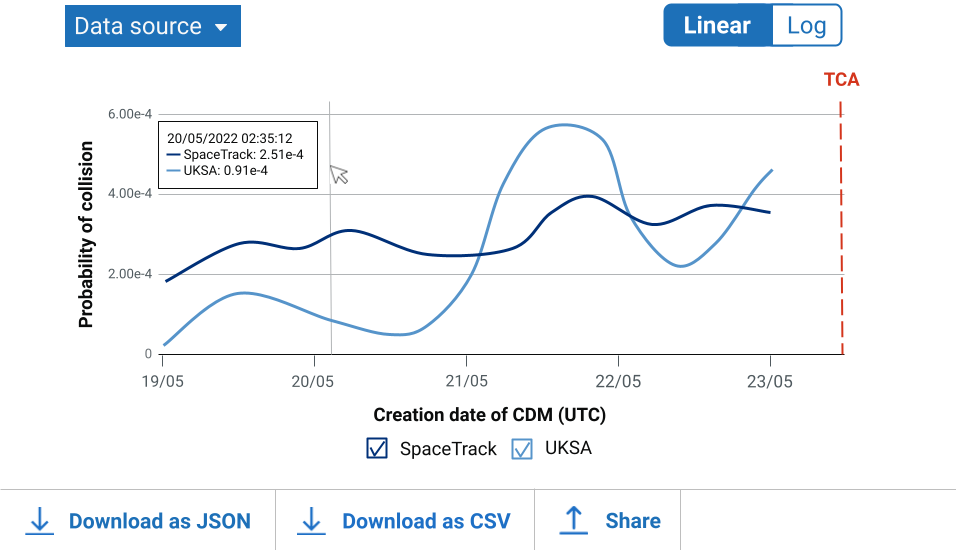
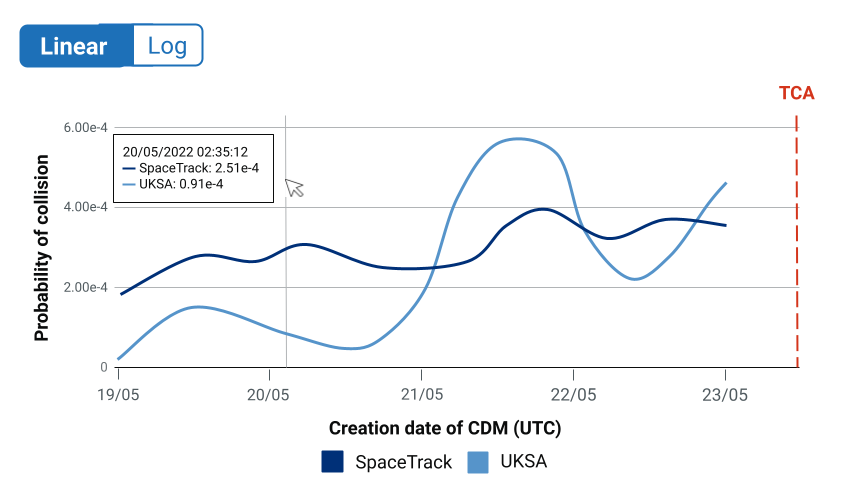
feat: Added the ability to toggle SPECIAL data on and off [SS-1779] (#229)

diff --git a/app/views/events/operator/event-summary-6.html b/app/views/events/operator/event-summary-6.html
@@ -65,29 +65,6 @@ Event bads-basdw-ascs
     </ul>
     <hr class="govuk-section-break govuk-section-break--l govuk-section-break--visible">
     <h3 class="govuk-heading-m">Filters</h3>
-    <div class="govuk-form-group" hidden>
-      <fieldset class="govuk-fieldset">
-        <legend class="govuk-fieldset__legend govuk-fieldset__legend--s">
-          <b style="margin-bottom: 0px">Filter by Analysis Type</b>
-        </legend>
-        <div class="govuk-checkboxes govuk-checkboxes--small" data-module="govuk-checkboxes">
-          <div class="govuk-checkboxes__item">
-            <input class="govuk-checkboxes__input" id="data-source" name="data-source-st" type="checkbox" value="space-track" checked>
-            <label class="govuk-label govuk-checkboxes__label" for="organisation">
-              Space-Track<br/>
-              <span style="font-size: 16px; color:#505a5f">Uses fixed hard body radius (5m)</span>
-            </label>
-          </div>
-          <div class="govuk-checkboxes__item">
-            <input class="govuk-checkboxes__input" id="data-source" name="data-source-uksa" type="checkbox" value="uksa" checked>
-            <label class="govuk-label govuk-checkboxes__label" for="organisation-2">
-              UKSA Analysis<br/>
-              <span style="font-size: 16px; color:#505a5f">Uses analyst-selected hard body radius (4.6m)</span>
-            </label>
-          </div>
-        </div>
-      </fieldset>
-    </div>
     <div class="govuk-form-group">
       <fieldset class="govuk-fieldset">
         <legend class="govuk-fieldset__legend govuk-fieldset__legend--s">
@@ -95,7 +72,33 @@ Event bads-basdw-ascs
         </legend>
         <div class="govuk-checkboxes govuk-checkboxes--small" data-module="govuk-checkboxes">
           <div class="govuk-checkboxes__item">
-            <input class="govuk-checkboxes__input" id="data-source" name="data-source-st" type="checkbox" value="space-track" checked>
+            <script>
+              const GRAPH_PATHS = {
+                "operational": {
+                  "missDistance": "/public/images/chart-MD.png",
+                  "collisionProbability": "/public/images/chart-PoC.png"
+                },
+                "special": {
+                  "missDistance": "/public/images/special/miss_distance_withspecial.png",
+                  "collisionProbability": "/public/images/special/poc_graph_withspecial.png"
+                }
+              };
+              var specialGraphsShown = true;
+              const toggleSpecialGraphs = function () {
+                // get miss distance graphs
+                const graphMissDistance = document.getElementById("graph-miss-distance");
+                const graphCollisionProbability = document.getElementById("graph-collision-probability");
+                const tableRowSpecialDataSource = document.getElementById("data-source-row-special");
+                const filterSpecialCheckbox = document.getElementById("filter-special");
+                specialGraphsShown = filterSpecialCheckbox.checked;
+
+                var lookup = specialGraphsShown ? "special" : "operational";
+                graphMissDistance.src = GRAPH_PATHS[lookup]["missDistance"];
+                graphCollisionProbability.src = GRAPH_PATHS[lookup]["collisionProbability"];
+                tableRowSpecialDataSource.hidden = !specialGraphsShown;
+              };
+            </script>
+            <input class="govuk-checkboxes__input" id="filter-special" name="filter-special" type="checkbox" value="space-track" onchange="toggleSpecialGraphs()" checked>
             <label class="govuk-label govuk-checkboxes__label" for="organisation">
               Show <strong class="govuk-tag">special</strong> ephemeris<br/>
               <span style="font-size: 16px; color:#505a5f">This is data based on planned, but not executed, manoeuvres</span>
@@ -184,7 +187,7 @@ Event bads-basdw-ascs
                       <div style="background-color:#f3f2f1">
                       <p class="govuk-body-secondary"><p style=color:#505a5f>The changing probability of a conjunction event leading up to the time of closest approach (TCA). Data from the UKSA and Space-Track is shown </p>
     
-                    <img src="/public/images/special/poc_graph_withspecial.png" alt="PoC Chart" width="100%">
+                    <img id="graph-collision-probability" src="/public/images/special/poc_graph_withspecial.png" alt="PoC Chart" width="100%">
                       </div>
     
                     </div>
@@ -205,7 +208,7 @@ Event bads-basdw-ascs
                               <div style="background-color:#f3f2f1">
                               <p class="govuk-body-secondary"><p style=color:#505a5f>The changing expected miss distance leading up to the time of closest approach (TCA). All available data is shown. </p>
     
-                            <img src="/public/images/special/miss_distance_withspecial.png" alt="MD Chart" width="100%">
+                            <img id="graph-miss-distance" src="/public/images/special/miss_distance_withspecial.png" alt="MD Chart" width="100%">
                               </div>
                             </div>
     
@@ -287,7 +290,7 @@ Event bads-basdw-ascs
                     </div>
                     </div>
     
-                    <!-- Collision plane plot -->
+                    <!-- Collision plane plot - CURRENTLY HIDDEN -->
                     <div class="govuk-accordion__section" hidden>
                       <div class="govuk-accordion__section-header">
                         <h2 class="govuk-accordion__section-heading" id="accordion-heading-2a">
@@ -617,7 +620,7 @@ Event bads-basdw-ascs
                           </table>
                         </td>
                       </tr>
-                    <tr class="govuk-table__row">
+                    <tr id="data-source-row-special" class="govuk-table__row">
                       <td class="govuk-table__cell govuk-body-s">Space-Track CDM: ID 987654321<br/><strong class="govuk-tag">special</strong></td>
                       <td class="govuk-table__cell govuk-body-s">03/02/21 14:10</td>
                       <td class="govuk-table__cell govuk-body-s">1.639e-3</td>

diff --git a/app/views/events/operator/event-summary-7.html b/app/views/events/operator/event-summary-7.html
@@ -72,22 +72,6 @@ Event plan-plans-plan
         <div class="govuk-form-group">
           <fieldset class="govuk-fieldset">
             <legend class="govuk-fieldset__legend govuk-fieldset__legend--s">
-              <b style="margin-bottom: 0px">Filter by Analysis Type</b>
-            </legend>
-            <div class="govuk-checkboxes govuk-checkboxes--small" data-module="govuk-checkboxes">
-              <div class="govuk-checkboxes__item">
-                <input class="govuk-checkboxes__input" id="data-source" name="data-source-st" type="checkbox" value="space-track" checked disabled>
-                <label class="govuk-label govuk-checkboxes__label" for="organisation">
-                  Space-Track<br/>
-                  <span style="font-size: 16px; color:#505a5f">Uses fixed hard body radius (5m)</span>
-                </label>
-              </div>
-            </div>
-          </fieldset>
-        </div>
-        <div class="govuk-form-group">
-          <fieldset class="govuk-fieldset">
-            <legend class="govuk-fieldset__legend govuk-fieldset__legend--s">
               <b style="margin-bottom: 0px">Filter by Data Source</h3>
             </legend>
             <div class="govuk-checkboxes govuk-checkboxes--small" data-module="govuk-checkboxes">
@@ -287,7 +271,7 @@ Event plan-plans-plan
                         </div>
                         </div>
         
-                        <!-- Collision plane plot -->
+                        <!-- Collision plane plot - CURRENTLY HIDDEN -->
                         <div class="govuk-accordion__section" hidden>
                           <div class="govuk-accordion__section-header">
                             <h2 class="govuk-accordion__section-heading" id="accordion-heading-2a">
